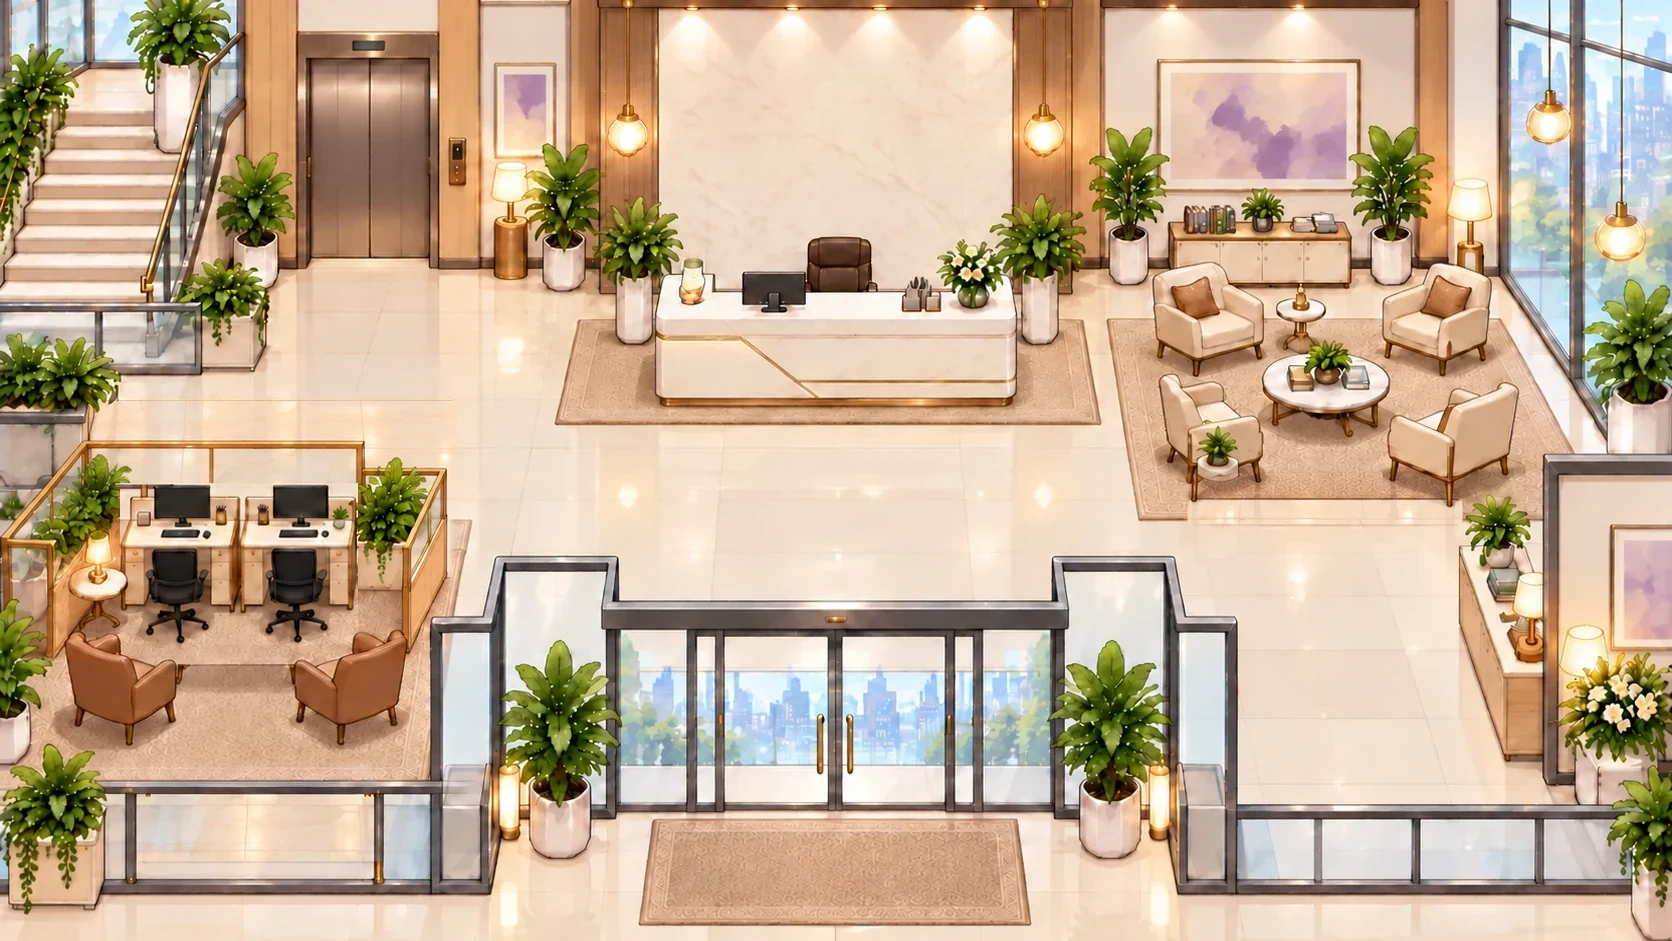
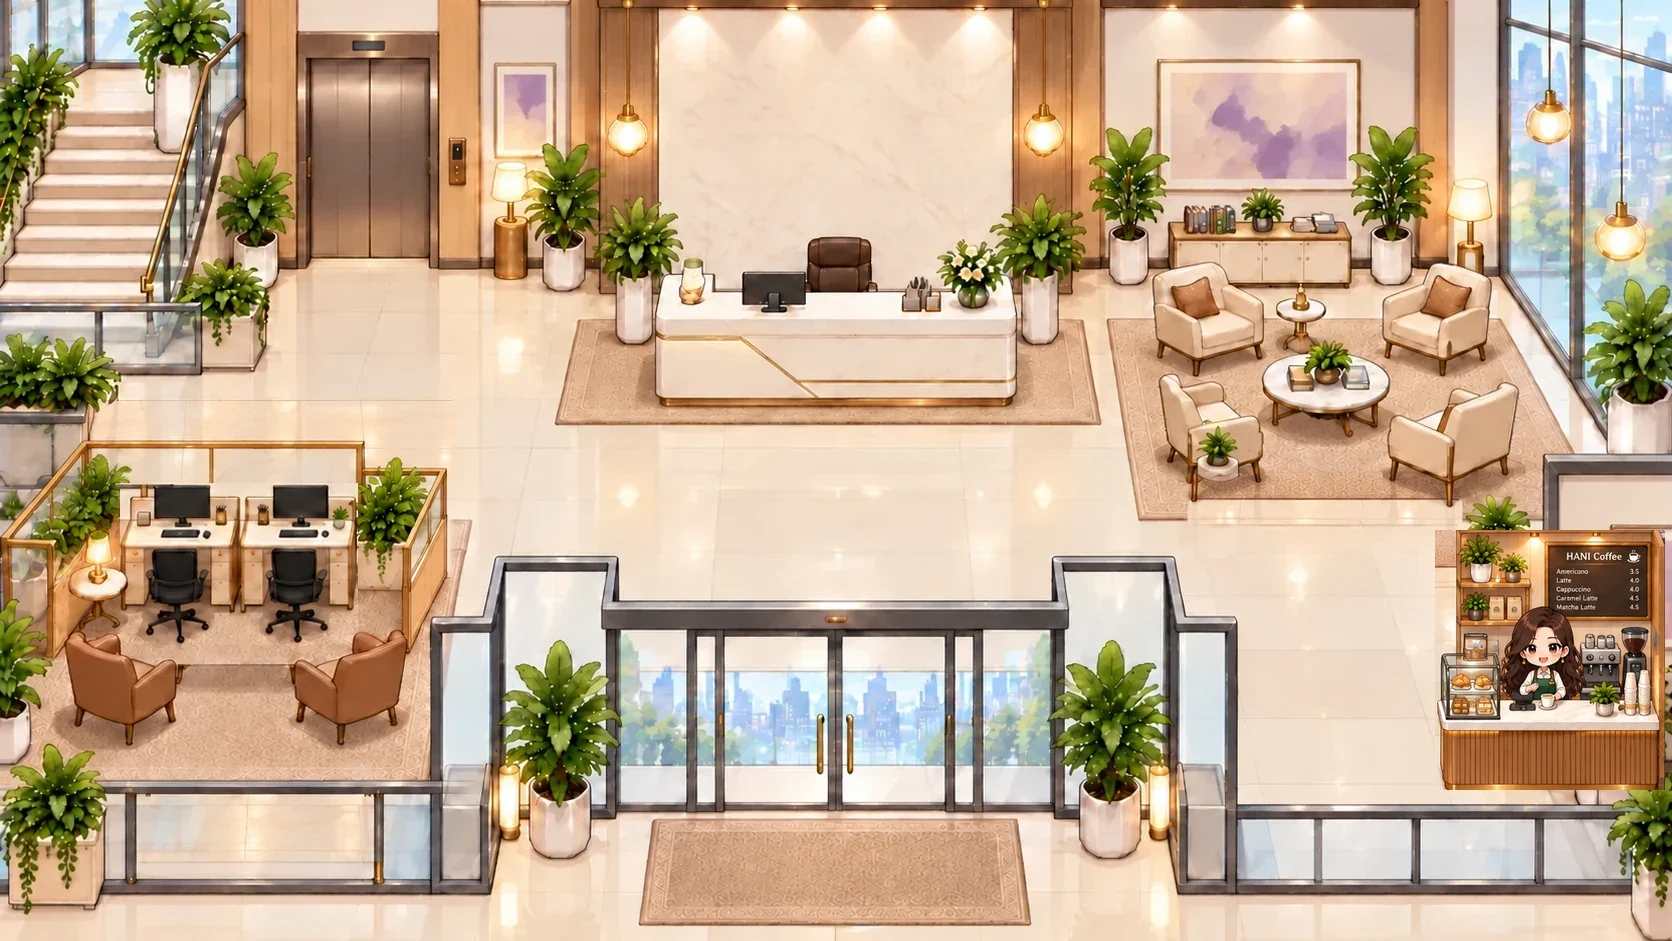
feat: add 1F coffee counter and more staff breaks

Changed region(s): [[0.8397, 0.5547, 1.0, 0.8629]]

diff --git a/hani-office-live.js b/hani-office-live.js
@@ -448,7 +448,8 @@
       const id=target.seat.anchor;if(stayBySlot.has(id))return stayBySlot.get(id);
       const card=places.find(c=>c.slots.includes(id)),room=anchors.get(id)?.room;
       const kind=card?.kind||(/window/.test(id)?'window':({cafe:'coffee',pantry:'coffee',platform:'sofa',mir_nook:'sofa',exec_lounge:'sofa',standup:'board',server:'server',garden:'garden',terrace:'terrace',lobby:'lobby',consult:'meeting',team_meeting:'meeting',release:'meeting',exec:'meeting'})[room]);
-      const range=card?.stay||stayRanges[kind]||[45,120];stayBySlot.set(id,range);return range;
+      // Formal catalog bounds stay fixed; the place data owns outing stays.
+      const range=stayRanges[kind]||card?.stay||[45,120];stayBySlot.set(id,range);return range;
     }
     const formalStayBounds=new WeakMap();
     function formalStay(action,chosen,seconds){
@@ -491,6 +492,10 @@
           let n=0;
           for(const [a,b] of actionWindows(parent,weekday))for(let tick=a;tick<b;tick+=cadence){
             const index=n++,start=tick+unit(base+'|'+index)*3,period=isLate(start)?'late':isEvening(start)?'evening':'day';
+            // Leave real calendar gaps for the configured workday breaks.
+            // Keep night cadence, authored signatures and group scenes intact.
+            const deskCadence=placeTable?.outingRules?.deskAmbientSeconds;
+            if(deskCadence&&tick>=32400&&tick<64800&&tick%deskCadence>=cadence)continue;
             if(!candidatePools.has(period)){const pool=[];
               for(const id of family.memberActionIds){const action=actions.get(id);if(!action)continue;
                 for(const subject of action.participants){const person=allowed.find(p=>p.id===subject);if(person&&presentAt(subject,start)&&homeAt(person,start).floor===family.limits.floor)pool.push({subject,action})}
@@ -1533,7 +1538,7 @@
             // keep visit kinds/stays, describe waiting honestly, and re-reserve
             // the full canon round trip through the same capacity/sweep gates.
             const target=anchors.get(v.target);
-            if(!visitorTargets.has(v.target))visitorTargets.set(v.target,target.room==='consult'?[v.target,...[...anchors.values()].filter(a=>a.floor==='1f'&&['consult','cafe'].includes(a.room)&&a.type==='seat'&&a.runtimeAssignable!==false&&a.id!==v.target).map(a=>a.id)]:[v.target]);
+            if(!visitorTargets.has(v.target))visitorTargets.set(v.target,v.target==='coffee_counter'?places.find(c=>c.id==='coffee-1f').slots:target.room==='consult'?[v.target,...[...anchors.values()].filter(a=>a.floor==='1f'&&['consult','cafe'].includes(a.room)&&a.type==='seat'&&a.runtimeAssignable!==false&&a.id!==v.target).map(a=>a.id)]:[v.target]);
             const targets=visitorTargets.get(v.target);
             for(const destination of targets){
               if(!screenHomeClear(id,'arrival_gate',slot(destination,'stand'),allowed,at,at+1))continue;

diff --git a/docs/development-history/handoffs/2026-11-01-office-cafe-rest.md b/docs/development-history/handoffs/2026-11-01-office-cafe-rest.md
@@ -1,0 +1,35 @@
+# 1F HANI Coffee와 휴식 인원 조정
+
+## 작업 식별
+
+- 갱신: 2026-11-01 KST / 담당: Codex 단독 / 검토 및 실제 브라우저: 요청문에서 지정한 후속 검토자.
+- 상태: 미커밋 변경 검토 대기. 최종 수치와 전체 검사 목록은 `artifacts/office-cafe/REPORT.md` 참조.
+- worktree: `C:/Users/홍성민/Documents/HANI_OS_DEV_CLAUDE/office-cafe`
+- branch: `.git/HEAD` 직접 읽기로 `hani/office-cafe-rest` 확인. base: `c7b2c202eb9eed0d2ebc7449525c1d913ddf8ebf`.
+- 승인 근거: 성민 대표님 이번 요청의 카페 배경·동선·휴식 스케줄 변경 범위. Git subprocess와 브라우저 금지, commit/push/merge/버전/Notion/저장소·Cloud 변경 금지.
+- 기준선: 로컬 index 2.9.245. 원격 main 최신성과 운영 실제 JS 로딩은 요청 제한으로 미확인. Git·브라우저 우회 없음.
+- CODEMAP living-office owner 확인. 세부 카페/스케줄러 anchor는 CODEMAP_MISS이므로 실제 loader → art/canon/places → plan/blockPlan → reserve/stateAt/snapshot → persistent renderer 경로 조사.
+
+## 결과와 증거
+
+- runtime 변경: `hani-office-live.js`, `assets/building/floor-1f-217.webp`, `data/hani-building/art-map-v1.json`, `data/hani-building/office-places.json`, `data/hani-building/spatial-contract.json`.
+- 개발 검사: `scripts/hani-office-cafe-measure.mjs`, `scripts/hani-office-cafe-audit.mjs`, `scripts/hani-office-cafe-rest.test.mjs`.
+- 이미지: 내장 image_gen 1회, 요청한 4개 층 아트와 실제 승인 chibi 시트를 전달. 최종 1672×941, 기존 파일명 유지. 생성한 카페 부분만 지정 영역에 합성하고 lossless WebP로 저장. 영역 밖 decoded RGB 변경 0. `compare.png`, `art-evidence.json`, `prepare-art.cjs` 및 생성 프롬프트를 근거로 보존.
+- 1F 별도 HD 배경 없음. HD는 sprites-v3의 캐릭터 atlas 분기이며, 배경은 art map의 floor-1f-217.webp를 실제 loader가 사용.
+- 기존 소파 좌석·door_cafe·junction_cafe·모든 label plate 원문 유지. 커피 주문/픽업 좌석과 별도 빈 바닥 접근 경로, 정문에서 안내대 안으로 향하던 경유점 교정. canonical edge 변경 2개, places 확장 anchor 2개. 보호 저장소 migration이나 Cloud schema 변경이 아님.
+- 데이터만으로 먼저 실측했으나 평일 평균이 약 0.8~0.9명에 머물러 추가 조정 필요. 09–18시 ambient 업무 동작 기회만 300초 간격으로 낮춰 실제 휴식 예약 공간을 확보. 야간 cadence와 signature/group 원래 기회는 유지. 정식 카탈로그의 체류 상한은 기존 고정 범위를 우선해 보존.
+- 정확한 소스 수정 행과 전후 내용: `artifacts/office-cafe/source-delta.json`. `placeStatusLabels` 전체 원문 byte 동일. 새 timer/renderer/DOM layer 없음.
+- `office-obr21-plans.json.gz`, movement delta 등 frozen fixture는 재생성/수정하지 않음. 고정 소스/plan/snapshot 관련 실패와 Git 차단을 `tests.json` 및 REPORT에 구분.
+- 저장소·Cloud·schema·version/cache·Notion 변경 없음. runtime closure는 128개, missing 0, 새 runtime 파일 0.
+- 최종 office 32파일: assertion 244 PASS / 29 FAIL / 2 SKIP, 완전 통과 10파일 / assertion 실패 16파일 / 선행 Git 제한으로 요약 없이 중단 6파일. 실패에는 고정 소스·계획·좌표 계약과 변경 전 휴식 정책뿐 아니라 behavior 대기 대사와 221의 90초 동작 기대 등 비동결 실패도 포함됩니다. 전체 PASS가 아니므로 REPORT의 각 assertion을 검토해야 합니다. 기존 219는 미수정이며 이 환경에서는 선행 Git에서 차단됐습니다.
+- 평일 점심 외 평균 0.867/0.842 → 3.531/3.644명, 점심 평균 1.678/1.667 → 6.556/6.744명. 하루 전체 드라마 도달성 대표님 있음 100/100·없음 95/100(요청 기준 93/88), 실제 자원·배우 예약 199,178쌍 위반 0. 카페 신규 3검사 PASS, obr21 전체 1F stationary/보고/desk gesture 검사도 PASS.
+- 성능 단독 측정: cold best 없음 641ms·있음 831ms, warm max 0.83/1.59ms. 기존 cold 400ms 기준에는 미달합니다. 새 루프는 없지만 모바일 초기 계획 비용과 lossless 이미지 초기 로딩은 남은 위험으로 보고합니다. 중급 Android 경량 성능 PASS로 간주하지 않습니다.
+
+## 다음 담당에게
+
+- 먼저 `artifacts/office-cafe/REPORT.md`, `compare.png`, `breaks-before.json`, `breaks-after.json`, `audit.json`, `tests.json`과 `source-delta.json` 검토.
+- 요청 제한에 맞춰 모든 변경은 미커밋. 실제 1F 화면/걷기/소파 사용/두 손님/label plate와 중급 Android 성능은 후속 검토자 실제 브라우저 확인 대기.
+- 승인 후 frozen 소스·plans를 재생성할 담당은 후속 검토자. 이번 작업에서 기존 oracle/검사 강도를 변경하지 않음. 남아 있는 비동결 검사 실패도 REPORT에 명시하며 자동 PASS 처리하지 않음.
+- 배포 blocker: runtime closure는 `data/` JSON을 수집하지 않으며 배포 브리지 `isAllowedReleasePath`도 `data/`를 허용하지 않는다. art-map, office-places, spatial-contract 세 파일을 일반 128개 package에 포함했다고 간주하면 안 된다. 배포 담당이 승인된 별도 데이터 반영 경로 또는 기존 runtime 파일 안에 정확한 데이터를 포함하는 방안을 먼저 결정·검증해야 한다. 정책/배포 스크립트는 이번 범위에서 변경하지 않았다.
+- 이미지 용량 증가 약 222KB → 1.26MB는 픽셀 보존을 위한 lossless 인코딩 결과. 실제 모바일 초기 로딩은 미검증.
+- main/Pages/Production read-back 모두 미실행. CURRENT/DECISIONS와 타 담당 인수인계 미수정. Notion은 이번 요청의 명시적 금지에 따라 미갱신.
